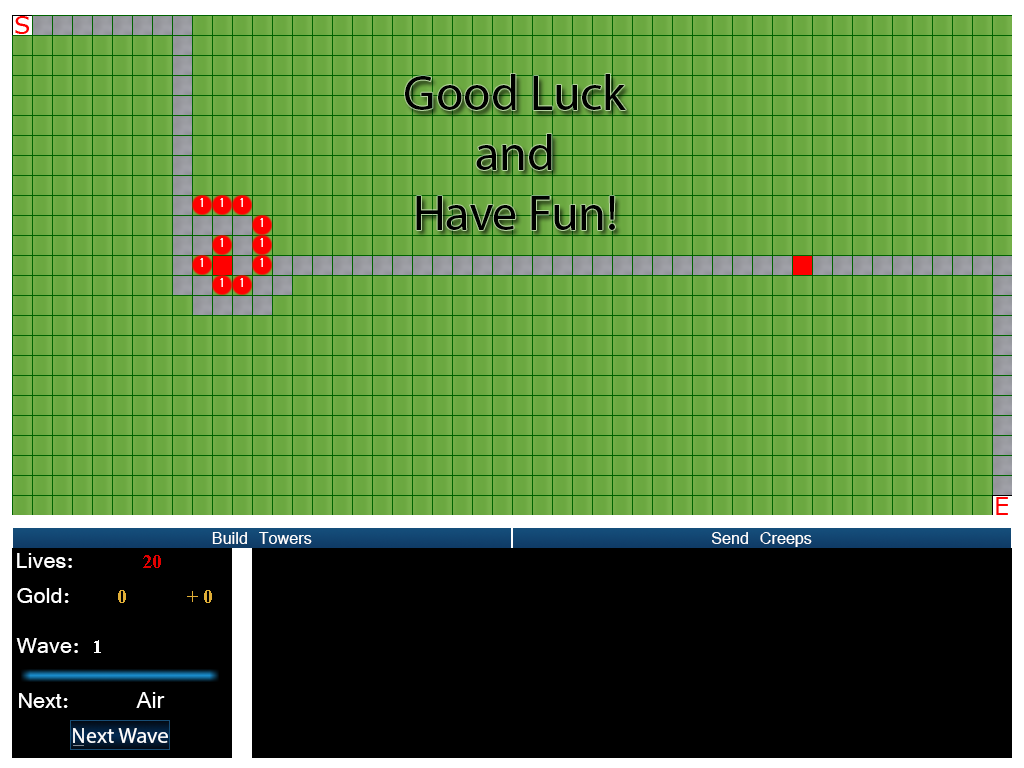
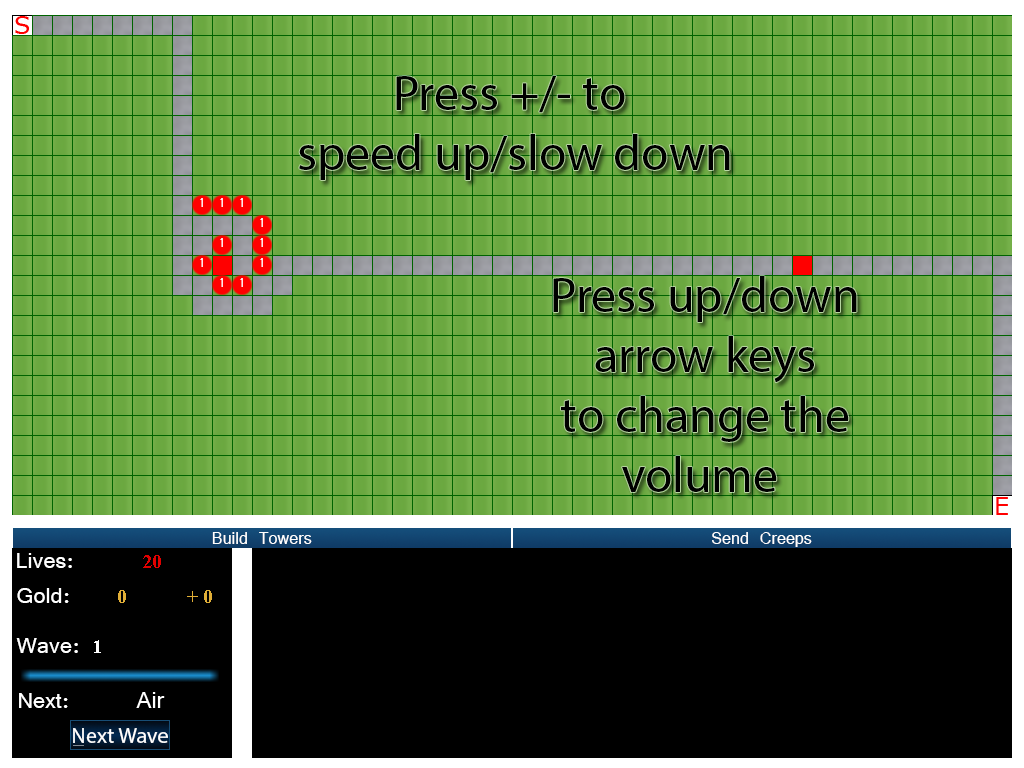
added final image to the tutorial

Changed region(s): [[0.5312, 0.3438, 0.8438, 0.6562], [0.2812, 0.0938, 0.7188, 0.3125]]

diff --git a/StartScreen.java b/StartScreen.java
@@ -42,7 +42,7 @@ public class StartScreen extends Actor
         bg              = new GreenfootImage (1024, 768);
         draw            = new GreenfootImage (1024, 768);
         splash          = new GreenfootImage ("splash.png");
-        tutPics         = new GreenfootImage[22];
+        tutPics         = new GreenfootImage[23];
         for (int i = 0; i < tutPics.length; i++){
             tutPics[i] = new GreenfootImage ("Tutorial/" + (i+1) + ".png");
         }
